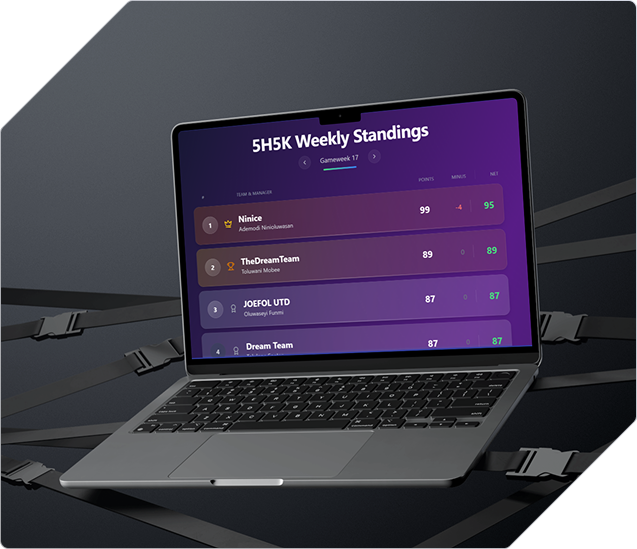
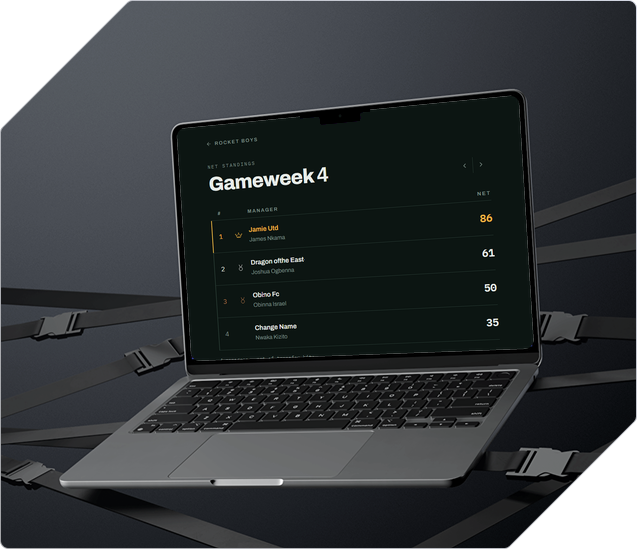
Refresh FPL Pulse screenshots and add GitHub contributions graph
- Replace FPL Pulse gallery shots and laptop mockup with the revamped site
- Add /api/github-contributions (parses public GitHub calendar, 1h cache)
- Add GitHub Activity section before Contact

Changed region(s): [[0.2684, 0.1548, 0.8352, 0.6812]]

diff --git a/src/components/GithubContributions.tsx b/src/components/GithubContributions.tsx
@@ -1,0 +1,161 @@
+import { useEffect, useMemo, useRef, useState } from "react";
+import { motion } from "framer-motion";
+
+type Day = { date: string; level: number; count: number };
+type Calendar = { username: string; total: number; days: Day[] };
+
+// Level 0-4 intensity, tinted with the green from the "Available for work" badge.
+const levelColors = [
+  "bg-white/[0.06]",
+  "bg-[#0EC126]/25",
+  "bg-[#0EC126]/50",
+  "bg-[#0EC126]/75",
+  "bg-[#0EC126]",
+];
+
+const MONTHS = [
+  "Jan", "Feb", "Mar", "Apr", "May", "Jun",
+  "Jul", "Aug", "Sep", "Oct", "Nov", "Dec",
+];
+
+const formatDate = (iso: string) => {
+  const d = new Date(`${iso}T00:00:00Z`);
+  return `${MONTHS[d.getUTCMonth()]} ${d.getUTCDate()}, ${d.getUTCFullYear()}`;
+};
+
+const GithubContributions = () => {
+  const [data, setData] = useState<Calendar | null>(null);
+  const scrollRef = useRef<HTMLDivElement>(null);
+
+  useEffect(() => {
+    let cancelled = false;
+    fetch("/api/github-contributions")
+      .then((res) => (res.ok ? res.json() : null))
+      .then((json: Calendar | null) => {
+        if (!cancelled && json?.days?.length) setData(json);
+      })
+      .catch(() => {});
+    return () => {
+      cancelled = true;
+    };
+  }, []);
+
+  // Group days into week columns (Sunday-first), padding the first week so
+  // each row lines up with its weekday.
+  const weeks = useMemo(() => {
+    if (!data) return [];
+    const cols: (Day | null)[][] = [];
+    const firstDow = new Date(`${data.days[0].date}T00:00:00Z`).getUTCDay();
+    let week: (Day | null)[] = Array(firstDow).fill(null);
+    for (const day of data.days) {
+      week.push(day);
+      if (week.length === 7) {
+        cols.push(week);
+        week = [];
+      }
+    }
+    if (week.length) cols.push(week);
+    return cols;
+  }, [data]);
+
+  // Label a column when its first real day starts a new month.
+  const monthLabels = useMemo(
+    () =>
+      weeks.map((week, i) => {
+        const first = week.find(Boolean);
+        if (!first) return "";
+        const month = Number(first.date.slice(5, 7)) - 1;
+        const prev = weeks[i - 1]?.find(Boolean);
+        const prevMonth = prev ? Number(prev.date.slice(5, 7)) - 1 : -1;
+        return month !== prevMonth && i < weeks.length - 1 ? MONTHS[month] : "";
+      }),
+    [weeks],
+  );
+
+  // On narrow screens, start scrolled to the most recent weeks.
+  useEffect(() => {
+    const el = scrollRef.current;
+    if (el) el.scrollLeft = el.scrollWidth;
+  }, [weeks]);
+
+  if (!data) return null;
+
+  return (
+    <section id="github" className="section bg-black text-white py-20">
+      <div className="max-w-7xl mx-auto w-full space-y-8">
+        <div className="flex flex-col sm:flex-row sm:items-end sm:justify-between gap-4">
+          <div className="space-y-4">
+            <h2 className="md:text-2xl lg:text-3xl font-consolas font-bold">
+              GitHub Activity
+            </h2>
+            <p className="font-satoshi text-gray-400 leading-relaxed">
+              <span className="text-white font-bold">
+                {data.total.toLocaleString()}
+              </span>{" "}
+              contributions in the last year
+            </p>
+          </div>
+          <a
+            href={`https://github.com/${data.username}`}
+            target="_blank"
+            rel="noopener noreferrer"
+            className="font-consolas text-sm text-gray-500 uppercase tracking-widest transition-colors duration-300 hover:text-white"
+          >
+            @{data.username} ↗
+          </a>
+        </div>
+
+        <motion.div
+          initial={{ opacity: 0, y: 20 }}
+          whileInView={{ opacity: 1, y: 0 }}
+          viewport={{ once: true, amount: 0.2 }}
+          transition={{ duration: 0.6 }}
+          className="w-full bg-[#111111] border border-white/10 p-4 md:p-6"
+        >
+          <div ref={scrollRef} className="overflow-x-auto no-scrollbar">
+            <div className="flex flex-col gap-2 min-w-[720px]">
+              {/* Month labels */}
+              <div className="flex gap-[3px] font-consolas text-[10px] text-gray-500">
+                {monthLabels.map((label, i) => (
+                  <div key={i} className="flex-1 min-w-0 overflow-visible">
+                    <span className="whitespace-nowrap">{label}</span>
+                  </div>
+                ))}
+              </div>
+
+              {/* Grid */}
+              <div className="flex gap-[3px]">
+                {weeks.map((week, i) => (
+                  <div key={i} className="flex-1 flex flex-col gap-[3px]">
+                    {week.map((day, j) =>
+                      day ? (
+                        <div
+                          key={day.date}
+                          title={`${day.count} contribution${day.count === 1 ? "" : "s"} on ${formatDate(day.date)}`}
+                          className={`w-full aspect-square rounded-[2px] ${levelColors[day.level] ?? levelColors[0]}`}
+                        />
+                      ) : (
+                        <div key={`pad-${j}`} className="w-full aspect-square" />
+                      ),
+                    )}
+                  </div>
+                ))}
+              </div>
+            </div>
+          </div>
+
+          {/* Legend */}
+          <div className="flex items-center justify-end gap-2 pt-4 font-consolas text-[10px] text-gray-500">
+            <span>Less</span>
+            {levelColors.map((color, i) => (
+              <div key={i} className={`w-[11px] h-[11px] rounded-[2px] ${color}`} />
+            ))}
+            <span>More</span>
+          </div>
+        </motion.div>
+      </div>
+    </section>
+  );
+};
+
+export default GithubContributions;

diff --git a/api/github-contributions.js b/api/github-contributions.js
@@ -1,0 +1,51 @@
+// Vercel serverless function: returns the owner's GitHub contribution calendar
+// for the last year.
+//
+// GitHub has no unauthenticated API for the calendar, so this parses the same
+// public HTML fragment that github.com renders on profile pages. No token needed.
+
+const USERNAME = "PurpleDNA";
+const CALENDAR_URL = `https://github.com/users/${USERNAME}/contributions`;
+
+export default async function handler(_req, res) {
+  // The calendar only changes as commits land; cache for an hour at the edge.
+  res.setHeader(
+    "Cache-Control",
+    "public, s-maxage=3600, stale-while-revalidate=86400",
+  );
+
+  try {
+    const page = await fetch(CALENDAR_URL);
+    if (!page.ok) throw new Error(`calendar request failed: ${page.status}`);
+    const html = await page.text();
+
+    // Each day cell carries its date and intensity level (0-4); the exact
+    // count lives in a separate <tool-tip for="<cell id>"> element.
+    const counts = new Map();
+    for (const m of html.matchAll(
+      /<tool-tip[^>]*\bfor="([^"]+)"[^>]*>([^<]*)<\/tool-tip>/g,
+    )) {
+      const n = m[2].match(/^(\d+)/);
+      counts.set(m[1], n ? Number(n[1]) : 0);
+    }
+
+    const days = [];
+    for (const m of html.matchAll(/<td\b[^>]*ContributionCalendar-day[^>]*>/g)) {
+      const tag = m[0];
+      const date = tag.match(/data-date="([^"]+)"/)?.[1];
+      const level = Number(tag.match(/data-level="(\d)"/)?.[1] ?? 0);
+      const id = tag.match(/\bid="([^"]+)"/)?.[1];
+      if (!date) continue;
+      days.push({ date, level, count: counts.get(id) ?? 0 });
+    }
+
+    // Cells are emitted row-by-row (weekday), so sort chronologically.
+    days.sort((a, b) => a.date.localeCompare(b.date));
+    const total = days.reduce((sum, d) => sum + d.count, 0);
+
+    return res.status(200).json({ username: USERNAME, total, days });
+  } catch (err) {
+    // The section hides itself when there's no data.
+    return res.status(200).json({ username: USERNAME, total: 0, days: [] });
+  }
+}

diff --git a/src/App.tsx b/src/App.tsx
@@ -3,6 +3,7 @@ import Hero from "./components/Hero";
 import BackgroundMusic from "./components/BackgroundMusic";
 import Projects from "./components/Projects";
 import Profile from "./components/Profile";
+import GithubContributions from "./components/GithubContributions";
 import Contact from "./components/Contact";
 import { Analytics } from "@vercel/analytics/react";
 
@@ -16,6 +17,7 @@ function App() {
         <Hero />
         <Projects />
         <Profile />
+        <GithubContributions />
         <Contact />
       </div>
     </div>

diff --git a/src/data/projects.ts b/src/data/projects.ts
@@ -193,9 +193,8 @@ export const projects: ProjectDetail[] = [
     ],
     images: [
       "/assets/fpl-pulse/home.png",
-      "/assets/fpl-pulse/list.png",
+      "/assets/fpl-pulse/league.png",
       "/assets/fpl-pulse/gameweek.png",
-      "/assets/fpl-pulse/minus.png",
     ],
     link: "https://fpl-xi.vercel.app/",
   },
